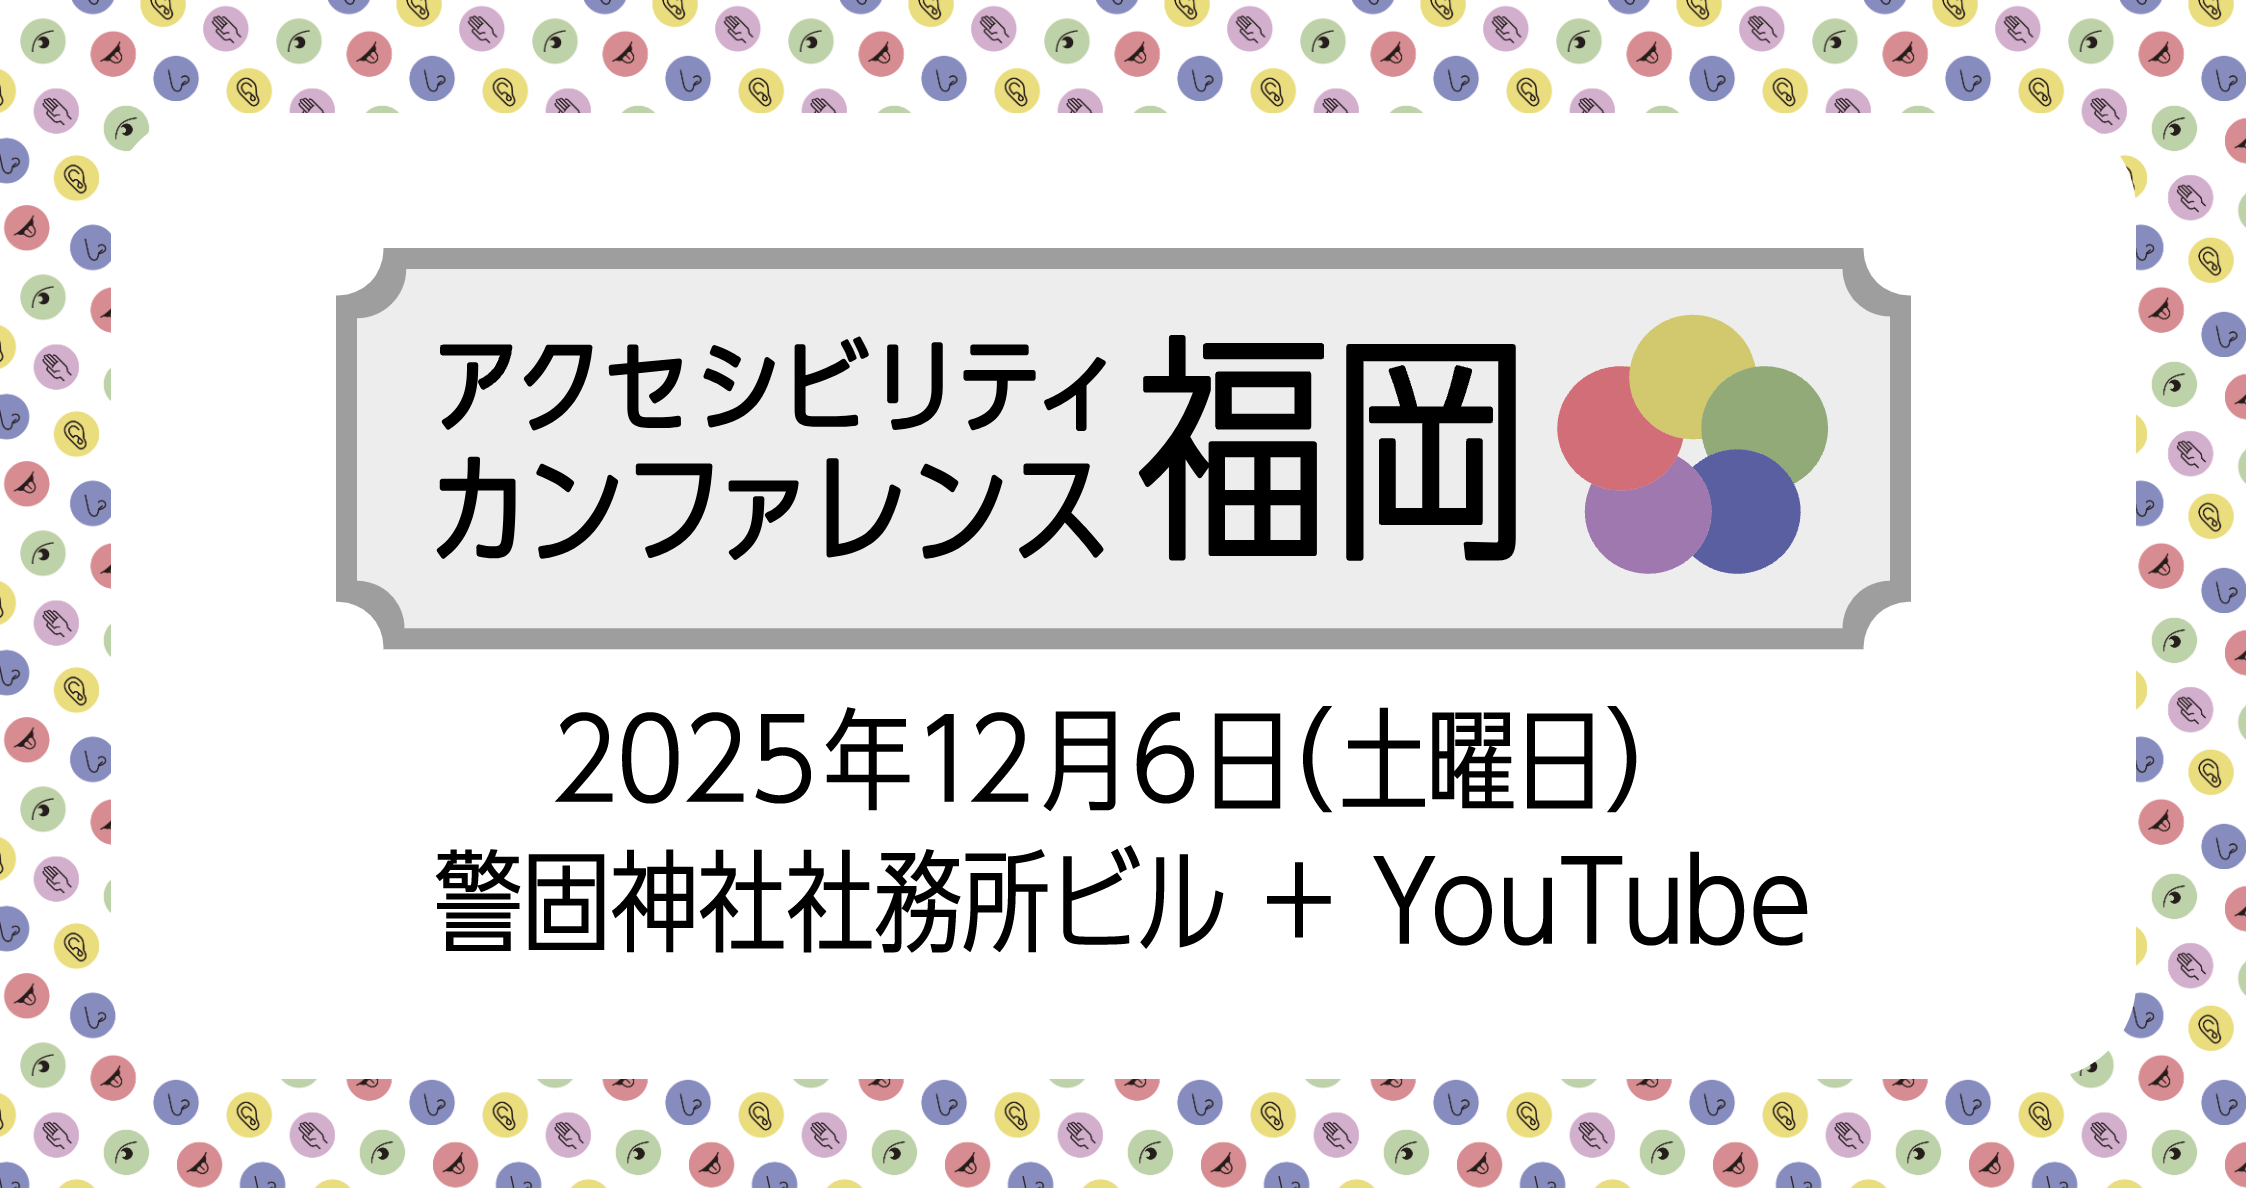
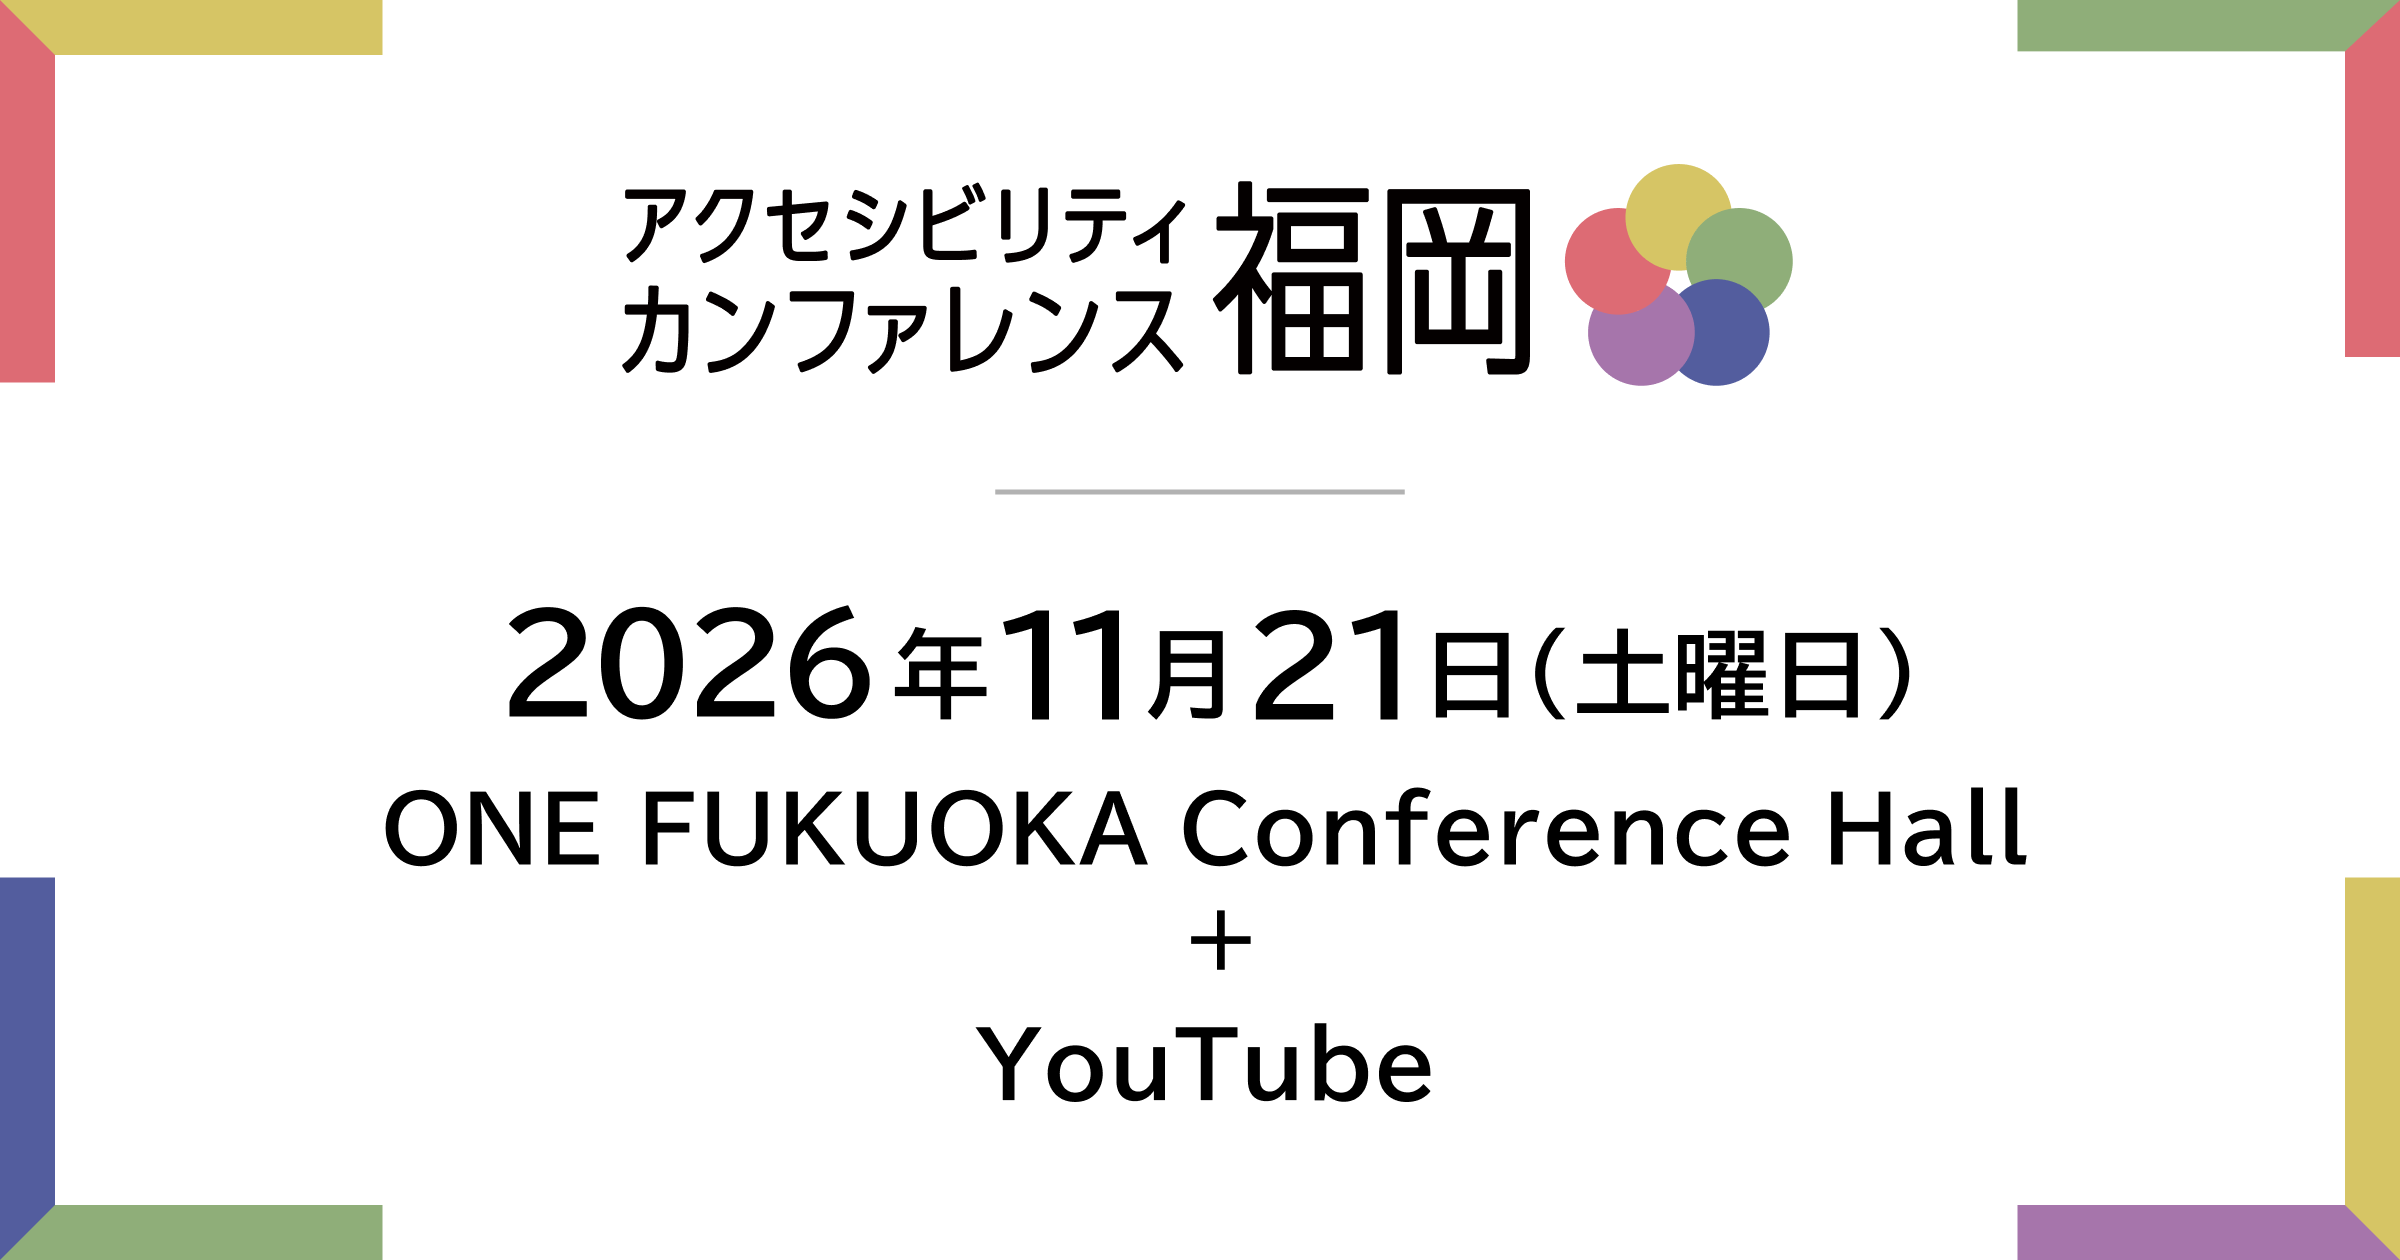
fix: 2026のOGP画像を差し替え、開催概要にYouTubeライブ配信リンクを追加
Claude-Session: https://claude.ai/code/session_01Ukqgedkh4ZUk43GafrLsrS

diff --git a/src/app.html b/src/app.html
@@ -13,7 +13,7 @@
 			content="2026年11月21日（土曜日）にONE FUKUOKA Conference Hallで開催される「アクセシビリティ」のカンファレンス"
 		/>
 		<meta property="og:url" content="https://fukuoka.a11yconf.net/" />
-		<meta property="og:image" content="https://fukuoka.a11yconf.net/ogp.webp?20250702" />
+		<meta property="og:image" content="https://fukuoka.a11yconf.net/ogp.webp?20260827" />
 		<script src="https://webfont.fontplus.jp/accessor/script/fontplus.js?~w9HrlzuUiI%3D&box=brdG3sIpDLw%3D&pm=1&aa=1&ab=1&chws=1"></script>
 	</head>
 	<body data-sveltekit-preload-data="hover">

diff --git a/src/routes/+page.svelte b/src/routes/+page.svelte
@@ -42,6 +42,13 @@
 				<dd>ONE FUKUOKA Conference Hall</dd>
 			</div>
 			<div>
+				<dt>ライブ配信</dt>
+				<dd>
+					<a href="https://www.youtube.com/@fukuoka-a11yconf" target="_blank">YouTube</a
+					>にて配信予定
+				</dd>
+			</div>
+			<div>
 				<dt>主催</dt>
 				<dd>アクセシビリティカンファレンス福岡実行委員会</dd>
 			</div>
